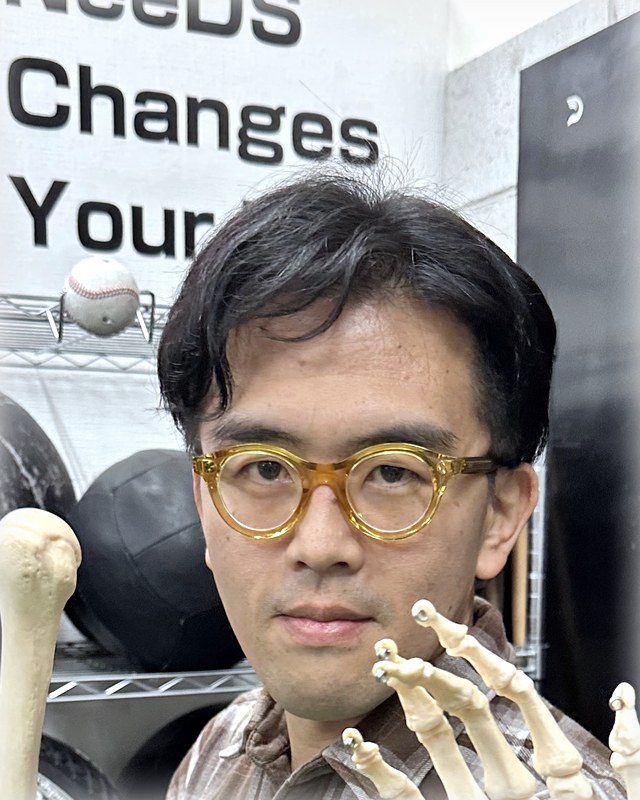
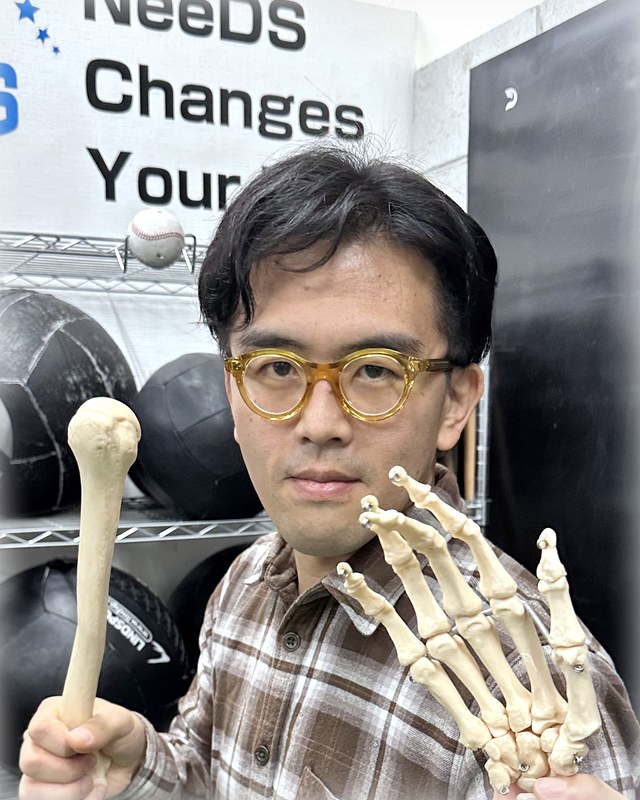
アドバイザーを引きの構図に直し、4名／3名の2段に変更
写真:
- 頭の高さを出力の40%から30%に縮め、胸の上あたりまで入る引きの構図に
- 頭頂の位置は出力上端から11%に統一
- 顔の中心は全員そろえて左右中央に配置
- 切り出し範囲は頭の実測値から計算しているため、引きにしても
  頭の大きさ・位置は全員そろったまま
- はみ出す分は引き続き鏡像で埋めて枠内に余白が出ないように

配置:
- 上段：福田・見邨・丸山先生・森下／下段：河合・上園・木戸
- 3名の段もカード幅は4列のときと同じにして中央に寄せる
- 幅の制限（920px）を外し、カードを257pxに戻した
- スマホは従来どおり2列で流す

Claude-Session: https://claude.ai/code/session_01Jax3jZugA7XXTDqSSKQ8SQ

diff --git a/index.html b/index.html
@@ -371,11 +371,11 @@ table{ border-collapse:collapse; width:100%; }
 @media (max-width:720px){ .levels{ grid-template-columns:1fr; } }
 
 /* アドバイザー */
-.adv{ margin-top:28px; display:flex; flex-direction:column; gap:16px; max-width:920px; margin-left:auto; margin-right:auto; }
-/* 3名／2名／2名の3段。2名の段もカード幅は3列のときと同じにして中央に寄せる */
+.adv{ margin-top:28px; display:flex; flex-direction:column; gap:16px; }
+/* 4名／3名の2段。3名の段もカード幅は4列のときと同じにして中央に寄せる */
 .adv-row{ display:grid; gap:16px; justify-content:center; }
-.adv-row-3{ grid-template-columns:repeat(3, minmax(0,1fr)); }
-.adv-row-2{ grid-template-columns:repeat(2, calc((100% - 32px) / 3)); }
+.adv-row-4{ grid-template-columns:repeat(4, minmax(0,1fr)); }
+.adv-row-3{ grid-template-columns:repeat(3, calc((100% - 48px) / 4)); }
 .adv-c{ background:var(--paper); border:1px solid var(--line); padding:0; text-align:center; overflow:hidden; }
 .adv-ph{ width:100%; aspect-ratio:4/5; overflow:hidden; background:var(--bg-gray); }
 .adv-ph img{ width:100%; height:100%; object-fit:cover; display:block; transition:transform .6s ease; }
@@ -806,36 +806,29 @@ height="0" width="0" style="display:none;visibility:hidden"></iframe></noscript>
     </div>
 
     <div class="adv rv">
-      <div class="adv-row adv-row-3">
-        <div class="adv-c">
-          <div class="adv-ph"><img src="images/advisor-01.jpg" alt="見邨 直人" width="640" height="800" loading="lazy"></div>
-          <p class="adv-n">見邨 直人</p>
-          <p class="adv-r">現役プロ野球トレーナー</p>
-        </div>
+      <div class="adv-row adv-row-4">
         <div class="adv-c">
           <div class="adv-ph"><img src="images/advisor-02.jpg" alt="福田 紳一郎" width="640" height="800" loading="lazy"></div>
           <p class="adv-n">福田 紳一郎</p>
           <p class="adv-r">現役MLBトレーナー</p>
         </div>
         <div class="adv-c">
+          <div class="adv-ph"><img src="images/advisor-01.jpg" alt="見邨 直人" width="640" height="800" loading="lazy"></div>
+          <p class="adv-n">見邨 直人</p>
+          <p class="adv-r">現役プロ野球トレーナー</p>
+        </div>
+        <div class="adv-c">
           <div class="adv-ph"><img src="images/advisor-05.jpg" alt="丸山先生" width="640" height="800" loading="lazy"></div>
           <p class="adv-n">丸山先生</p>
           <p class="adv-r">機能解剖学</p>
         </div>
-      </div>
-      <div class="adv-row adv-row-2">
         <div class="adv-c">
           <div class="adv-ph"><img src="images/advisor-06.jpg" alt="森下 健" width="640" height="800" loading="lazy"></div>
           <p class="adv-n">森下 健</p>
           <p class="adv-r"><span class="nw">メンタル</span><span class="nw">トレーニングコーチ</span></p>
         </div>
-        <div class="adv-c">
-          <div class="adv-ph"><img src="images/advisor-07.jpg" alt="木戸 清香" width="640" height="800" loading="lazy"></div>
-          <p class="adv-n">木戸 清香</p>
-          <p class="adv-r">管理栄養士</p>
-        </div>
       </div>
-      <div class="adv-row adv-row-2">
+      <div class="adv-row adv-row-3">
         <div class="adv-c">
           <div class="adv-ph"><img src="images/advisor-04.jpg" alt="河合 庄司" width="640" height="800" loading="lazy"></div>
           <p class="adv-n">河合 庄司</p>
@@ -845,6 +838,11 @@ height="0" width="0" style="display:none;visibility:hidden"></iframe></noscript>
           <div class="adv-ph"><img src="images/advisor-03.jpg" alt="上園 啓史" width="640" height="800" loading="lazy"></div>
           <p class="adv-n">上園 啓史</p>
           <p class="adv-r">元プロ野球選手</p>
+        </div>
+        <div class="adv-c">
+          <div class="adv-ph"><img src="images/advisor-07.jpg" alt="木戸 清香" width="640" height="800" loading="lazy"></div>
+          <p class="adv-n">木戸 清香</p>
+          <p class="adv-r">管理栄養士</p>
         </div>
       </div>
     </div>
